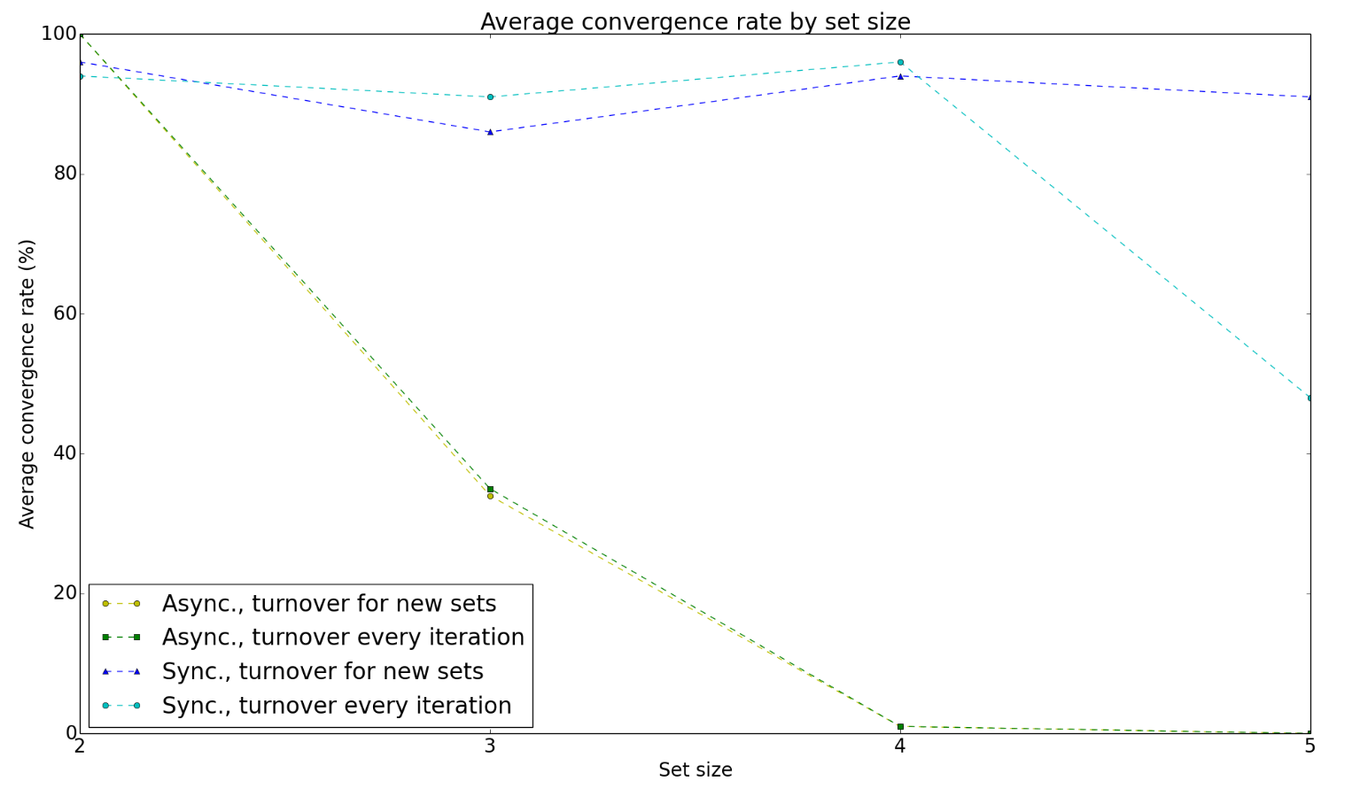
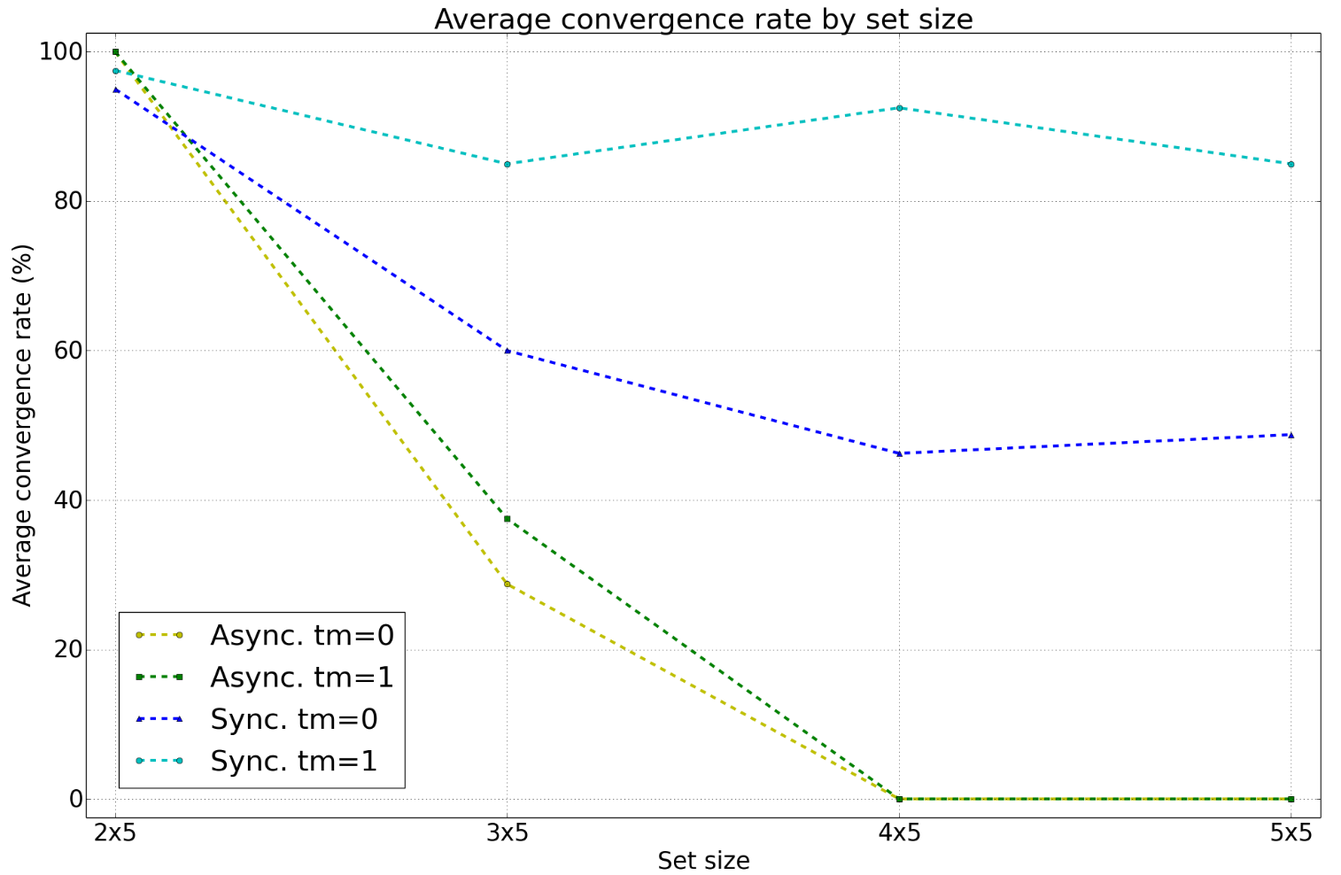
Added new figures for turnover rates. TODO: Add in text. Merge captions.

diff --git a/chapter4.tex b/chapter4.tex
@@ -75,7 +75,7 @@ In this thesis, two sets of 25 distinct patterns are used, namely the first 25 l
 \begin{figure}\label{fig:sample_letters}
     \centering
     \includegraphics[width=9cm]{fig/im_both.png}
-    \caption{Illustrating the 7x7 images that are used as input and output patterns, the first row being the input patterns and the second being the associated output pattern, here illustrated for an autoassociative case, which is used in the initial experimentation.}
+    \caption{Illustrating 7x7 images that are used as input and output patterns, the first row being the input patterns and the second being the associated output pattern, here illustrated for the auto-associative case for the first 2x5 patterns. Note that each pixel value is inflated to a larger square of pixels in order to make the figure more readable.}
 \end{figure}
 
 
@@ -86,7 +86,7 @@ Before I introduce the experiments, I would like to briefly introduce the model 
 This is followed by experiments designed to test specific aspects of the hippocampal model, presenting aggregate results such as graphs of mean convergence ratios along with corresponding analyses.
 
 \subsection{Low-level demonstration}
-Following is a demonstration of hippocampal model learning, using two distinct model schemes for two different examples, with figures of model output after each learning iteration for chaotic recall and normal recall, i.e. pattern association. The first two subsets of autoassociative patterns, that is \{A$\rightarrow$A, B$\rightarrow$B\}, and \{C$\rightarrow$C, D$\rightarrow$D\}, are used as training sets in this example.
+Following is a demonstration of hippocampal model learning, using two distinct model schemes for two different examples, with figures of model output after each learning iteration for chaotic recall and normal recall, i.e. pattern association. The first two subsets of auto-associative patterns, that is \{A$\rightarrow$A, B$\rightarrow$B\}, and \{C$\rightarrow$C, D$\rightarrow$D\}, are used as training sets in this example.
 Furthermore, the hippocampal module is instantiated with the parametrization described above in tables \ref{table:initial_settings} and \ref{table:firing_rates}, and with a neuronal turnover rate $\tau = 0.04$ and a DG-weighting of $1$ in the first example, and $\tau=0.50$ and DG-weighting$=25$ in the second example. Neuronal turnover is performed between every learnt training set - that is, only once after learning the \{A$\rightarrow$A, B$\rightarrow$B\} associations, before commencing learning of the next pair. Here the convergence criteria is set to a static number of training iterations, equal to $15$.
 In further experiments, results are generated and analysed for both a dynamic convergence criteria for learning and stability during recall, as well as for two configurations of $i$ training iterations as the learning and stable recall criterion. Furthermore, the weight matrices are instantiated according to their respective firing rates, with weights being randomly assigned according to Gaussian distributions using the parameters presented in table \ref{table:initial_weight_distributions}, for the number of neurons corresponding to the layers' firing rates, respectively (as outlined in table \ref{table:firing_rates}).
 
@@ -147,17 +147,17 @@ Furthermore, the convergence criterion is defined as the following: For each tra
 
 \begin{figure}
     \centering
-    \includegraphics[width=12cm]{fig/cut_prr_with_spurious_reset_every_experiment}
+    \includegraphics[width=12cm]{fig/average_perfect_recall_rates_by_set_size_with_spurious_bars_cut}
     \caption{Displaying the average number of perfectly recalled patterns for each mode configuration, along with the average number of spuriously recalled patterns for each configuration. Note that the dentate gyrus weighting is set to 25, and the turnover rate to $0.50$ in all of the configurations, which might impact particularly the turnover mode in which turnover is performed between every training iteration.}
     \label{fig:avg_perfect_recall_rates_with_spurious_bars}
 \end{figure}
 
-Note that spurious is defined as any distinct non-perfectly recalled pattern in figure \ref{fig:avg_perfect_recall_rates_with_spurious_bars}. Note that in contrast to the introductory examples where the convergence criterion was defined as training or recalling for a fixed number of iterations \textit{i}, (\textit{i} $=15$ in the introductory low-level examples), having a stricter convergence criterion naturally resulted in no spurious patterns being recalled in the synchronous updating schemes, as may be expected when considering figure \ref{fig:chaotic_recall_sync}. However, it remains unclear whether model convergence is attained only by studying this figure. In order to possibly elucidate this, the convergence rate is also logged and presented in figure \ref{fig:convergence_rates_async_sync} for asynchronous CA3 updating.
+Note that spurious is defined as any distinct non-perfectly recalled pattern in figure \ref{fig:avg_perfect_recall_rates_with_spurious_bars}. Non-perfect is used as a term rather than imperfect to signify that the pattern may be either nearly perfect, or in fact completely random, i.e. spurious. Note that in contrast to the introductory examples where the convergence criterion was defined as training or recalling for a fixed number of iterations \textit{i}, (\textit{i} $=15$ in the introductory low-level examples), having a stricter convergence criterion naturally resulted in no spurious patterns being recalled in the synchronous updating schemes, as may be expected when considering figure \ref{fig:chaotic_recall_sync}. However, it remains unclear whether model convergence is attained only by studying this figure. In order to possibly elucidate this, the convergence rate is also logged and presented in figure \ref{fig:convergence_rates_async_sync} for asynchronous CA3 updating.
 
 \begin{figure}
     \centering
     \includegraphics[width=13cm]{fig/avg_convergence_rate_cut}
-    \caption{Presenting the average convergence rate in the four experiment-schemes, using the strict convergence criterion. Learning and convergence is considered successful if attained within 50 training iterations. Note that the synchronous updating schemes seem to converge just as well in nearly all cases, except for in the case of set size 5.   [should increase line thickness, include grid too]}
+    \caption{Presenting the average convergence rate in the four experiment-schemes, using the strict convergence criterion. Learning and convergence is considered successful if attained within 50 training iterations. Note that the synchronous updating schemes seem to converge just as well in nearly all cases, except for in the case of set size 5.}
     \label{fig:convergence_rates_async_sync}
 \end{figure}
 
@@ -172,7 +172,7 @@ This is exactly the reason for why neuronal turnover is performed in the first c
 % refactor:
 However, according to physiological findings, this pathway is used very little during recall \citep{Wakagi2008}. 
 Furthermore, due to the auto-associative nature of the CA3-layer, if this layer has successfully converged for patterns with little overlap, it is likely to fall into a basin of attraction, performing pattern completion for partial pattern input. Now, one may think that the EC-layer will not necessarily project a partial, recoded pattern to the CA3-layer, as this recoding is performed in synergy with the DG-layer. However, as the observant reader may have noticed, it is exactly that; in \textit{synergy} with the DG-layer. As recoding has already been performed, this recoding is propagated to all layers of the network model by Hebbian learning. In other words, the synaptic weight modification between the EC-layer and CA3 will reflect the recoded pattern.
-Lastly, the nature of the CA3-neurons, i.e. chaotic neurons, may also impact the chaotic recall capabilities of the model. While it appears evident that the zeta- and eta-equations do not limit successful training of patterns, it may be that they impact the next activation values of the CA3-layer too heavily during recall. This may be argued by considering that in the current implementation, the next eta- and thus zeta-values are based on the former eta- and zeta-values along with the sum of the raw input sum, i.e. the sum of the dot products between the anteceding layers' activation value vectors and their corresponding weight matrices, without computing the values' transfer function values. )This may be tested by performing the entire experimental suite using). However, as damping factors are used, the former values will be disregarded at an exponential pace. Leaving only the possibility that the sum of the former values along with the new input sum enhances the gravity of the current basin of attraction. This is unlikely, as the model attains successful convergence for an additional term in the input equation during training, namely the dot product from the DG-layer. Furthermore, this product may be multiplied by a factor up to 25. If anything, this suggests that the eta- and zeta-functions are not at all excited about the DG-layers absence, possibly resulting in its stable mood.
+Lastly, the nature of the CA3-neurons, i.e. chaotic neurons, may also impact the chaotic recall capabilities of the model. While it appears evident that the zeta- and eta-equations do not limit successful training of patterns, it may be that they impact the next activation values of the CA3-layer too heavily during recall. This may be argued by considering that in the current implementation, the next eta- and thus zeta-values are based on the former eta- and zeta-values along with the sum of the raw input sum, i.e. the sum of the dot products between the anteceding layers' activation value vectors and their corresponding weight matrices, without computing the values' transfer function values. )This may be tested by performing the entire experimental suite using). However, as damping factors are used, the former values will be disregarded at an exponential pace. Leaving only the possibility that the sum of the former values along with the new input sum enhances the gravity of the current basin of attraction. This is unlikely, as the model attains successful convergence for an additional term in the input equation during training, namely the dot product from the DG-layer. Furthermore, this product may be multiplied by a factor up to 25. If anything, this suggests that the eta- and zeta-functions are not at all excited about the DG-layer's absence, possibly resulting in its stable mood.
 
 
 % ========================== DGWs ===============================
@@ -180,50 +180,49 @@ Lastly, the nature of the CA3-neurons, i.e. chaotic neurons, may also impact the
 
 In \citeauthor{Wakagi2008}'s \citeyear{Wakagi2008} hippocampal model, upon which \citeauthor{Hattori2010}'s \citeyear{Hattori2010, Hattori2014} models are based, the DG-layer, performing separation of similar, yet distinct patterns, has the ability to influence the activity of the CA3 strongly during learning. The idea that the DG is able to strongly influence the activity of CA3 during learning, is also confirmed by physiological findings \citep{Rolls1998chpt6}. 
 
-When it comes to this thesis' model; as synaptic connections from DG to CA3 are used solely during learning, this may in fact be what is needed in order to encompass and attain the desired emergence of successful pattern separation. Note also that the DG-CA3 weight matrix is initialized with rather high weight values ($\mu=0.9, \sigma=0.01$), and a low deviation from those values for the neurons whose synaptic connections become instantiated. This may result in the layer being able to highly influence preceding neurons through its connections. However, this does not necessarily hold, as weights from EC-CA3 may grow towards 1 as well. In either way, I decided to model the potential impact of adjusting the DG-weighting by implementing a DG-CA3 weight matrix \textit{coefficient}, also referred to as the DG-weighting. For each DG-weighting variable value from 0 to 29, 40 experiments are performed - i.e. 10 experiments per set size. Furthermore, these experiments are performed for three different hippocampal model configurations, namely:
+When it comes to this thesis' model; as synaptic connections from DG to CA3 are used solely during learning, this may in fact be what is needed in order to encompass and attain the desired emergence of successful pattern separation. Note also that the DG-CA3 weight matrix is initialized with rather high weight values ($\mu=0.9, \sigma=0.01$), and a low deviation from those values for the neurons whose synaptic connections become instantiated. This may result in the layer being able to highly influence preceding neurons through its connections. However, this does not necessarily hold, as weights from EC-CA3 may grow towards 1 as well. In either way, I decided to model the potential impact of adjusting the DG-weighting by implementing a DG-CA3 weight matrix \textit{coefficient}, also referred to as the DG-weighting. For each DG-weighting variable value from 0 to 29, 40 experiments are performed - i.e. 10 experiments per set size. Furthermore, these experiments are performed for four different hippocampal model configurations, namely:
 
 %list
 \begin{itemize}  
 \item Asynchronous updating of the CA3-layer values and weights, turnover for every training iteration, using a turnover rate $\tau=0.04$.
+\item Asynchronous updating of the CA3-layer, with neuronal turnover between learnt training subsets, $\tau=0.50$.
 \item Synchronous updating of the CA3-layer and its associated values and weights, turnover for every new training subset, $\tau=0.50$.
 \item Synchronous updating of the CA3-layer and its associated values and weights, turnover for every training iteration, $\tau=0.04$.
 \end{itemize}
 
-Note that only one asynchronous CA3-updating scheme was used. As there is a significant time limit to this thesis, I employ only one configuration for the asynchronous scheme in the DG-weighting calibration experiments, due to the observations that the two asynchronous CA3-updating schemes in figure \ref{fig:avg_perfect_recall_rates_with_spurious_bars}, as well as from other empirical data attained during mode calibration, shows little or no difference between the two schemes. Furthermore, note that the model configuration now employs a turnover rate, denoted by $\tau$, of $\tau=0.04$ in the asynchronous updating schemes. This is due to the fact that performing turnover for 50 \% of the neurons between learnt training subsets is in fact less than the number of neurons which are re-initialized when the number of iterations are above 12 before reaching convergence. Furthermore, I wish to investigate the impact of a more biologically realistic neuronal turnover rate, and nevertheless algorithmically testing slightly different model parametrization and computation schemes. Even though turnover for every training set iteration may be unrealistic, if it results in the model achieving better performance, it will provide the basis for a further analysis on the topic of randomness in the DG-layer, as well as whether the model may be linked to some hippocampal function aspects that operate on a longer time-scale.
+Note that the model configuration now employs a turnover rate, denoted by $\tau$, of $\tau=0.04$ in the neuronal turnover schemes where turnover is performed for every training iteration. This is due to the fact that performing turnover for 50 \% of the neurons between learnt training subsets does in fact result in less than the number of neurons which are re-initialized, when the number of iterations are above 12 before reaching convergence. Furthermore, $\tau=0.04$ is, albeit performing turnover implausibly frequently, a more biologically realistic rate in itself. Nevertheless, employing the different rates does algorithmically test slightly different model parametrization and computation aspects. Even though turnover for every training set iteration may be unrealistic, the may provide a basis for further analysis on the topic of randomness in the DG-layer, as well as whether the model may be linked to some hippocampal functional aspects that operate at a larger time-scale.
 
 % results
-% \begin{figure}
-%     \centering
-%     \includegraphics[width=13cm]{fig/3d_perfect_recall_by_set_size_and_dgw_async_tr_004_tm1}
-%     \caption{Perfect recall rates by set size for DG-weightings 0}
-%     \label{fig:3d_perfect_recall_by_set_size_and_dgw_async_tr_004_tm1}
-% \end{figure}
-
-% \begin{figure}
-%     \centering
-%     \includegraphics[width=12cm]{fig/3d_non_perfect_recall_by_set_size_and_dgw_async_tr_004_tm1}
-%     \caption{Caption}
-%     \label{fig:3d_non_perfect_recall_by_set_size_and_dgw_async_tr_004_tm1}
-% \end{figure}
-
 
 \begin{figure}
     \centering
-    \includegraphics[width=13cm]{fig/3d_perfect_recall_by_set_size_and_dgw_sync_tr_050_tm0}
+    \includegraphics[width=13cm]{fig/DGWs/cut/avg_recall_ratio_by_dgw_sync_tm0_50_cut}
     \caption{Perfect recall rate for synchronous CA3-layer neuronal updates, using a turnover rate $\tau=0.50$, and neuronal turnover between learnt subsets. It seems that using the DG-layer altogether does only slightly enhance the extraction rate of the model with the current parametrization. Furthermore, the extraction rate relative to the pattern size of perfectly recalled patterns remains fairly uniform across all training set sizes.}
-    \label{fig:3d_perfect_recall_by_set_size_and_dgw_sync_tr_050_tm0}
+    \label{fig:avg_recall_ratio_by_dgw_sync_tm0_50}
 \end{figure}
 
 \begin{figure}
     \centering
-    \includegraphics[width=13cm]{fig/3d_non_perfect_recall_by_set_size_and_dgw_sync_tr_050_tm0_angle_ss}
+    \includegraphics[width=13cm]{fig/DGWs/cut/non_perfect_recall_by_dgw_sync_tm0_50_cut}
     \caption{Displaying the number of spuriously recalled patterns, usign the synchronous CA3 updating mode, $\tau=0.50$, and turnover between learnt sets.}
-    \label{fig:3d_non_perfect_recall_by_set_size_and_dgw_sync_tr_050_tm0_angle_ss}
+    \label{fig:non_perfect_recall_by_dgw_sync_tm0_50}
 \end{figure}
 
-(All findings for DGWs in the async. mode need to be scrapped so far, due to an implementational bug.)
+\begin{figure}
+    \centering
+    \includegraphics[width=13cm]{fig/DGWs/cut/avg_recall_ratio_by_dgw_async_tm0_50_cut}
+    \caption{Perfect recall rate for synchronous CA3-layer neuronal updates, using a turnover rate $\tau=0.50$, and neuronal turnover between learnt subsets. It seems that using the DG-layer altogether does only slightly enhance the extraction rate of the model with the current parametrization. Furthermore, the extraction rate relative to the pattern size of perfectly recalled patterns remains fairly uniform across all training set sizes.}
+    \label{fig:avg_recall_ratio_by_dgw_async_tm0_50}
+\end{figure}
 
-Note in figure \ref{fig:3d_perfect_recall_by_set_size_and_dgw_sync_tr_050_tm0} that the perfect recall rate is fairly equal for all training set sizes. This may indicate that either few basins of attractions are formed, or that only few basins are reached during chaotic recall. As the model converges in nearly 100 \% of the cases, the latter is likely to be the case. Figures for synchronous CA3-layer updating, using turnover for every set iteration, with the neuronal turnover rate $\tau=0.04$, are included in appendix E. These figures are very similar to the ones attained for the scheme using turnover for every new set only, with $\tau=0.50$.
+\begin{figure}
+    \centering
+    \includegraphics[width=13cm]{fig/DGWs/cut/non_perfect_recall_by_dgw_async_tm0_50_cut}
+    \caption{Displaying the number of spuriously recalled patterns, usign the synchronous CA3 updating mode, $\tau=0.50$, and turnover between learnt sets.}
+    \label{fig:non_perfect_recall_by_dgw_async_tm0_50}
+\end{figure}
+
+Note in figure \ref{fig:avg_recall_ratio_by_dgw_sync_tm0_50} that the perfect recall rate is fairly equal for all training set sizes. This may indicate that either few basins of attractions are formed, or that only few basins are reached during chaotic recall. As the model converges in nearly 100 \% of the cases, the latter is likely to be the case. Figures for synchronous CA3-layer updating, using turnover for every set iteration, with the neuronal turnover rate $\tau=0.04$, are included in appendix E. These figures are very similar to the ones attained for the scheme using turnover for every new set only, with $\tau=0.50$.
 
 As for the DG-weighting itself, note that there seems to be no significant correlation nor performance gain with the DG-weighting. Therefore, pattern separation from the DG-CA3-connections seem to be largely unsuccessful during recall. 
 Note also that discarding the activity of the layer altogether during learning does not result in significantly worse model performance, which strengthens the hypothesis that the activity of the DG-layer is unsuccessful in heavily influencing the activity of the CA3-layer. 
@@ -257,68 +256,68 @@ Setup & CA3 updating mode & DG-weighting & Neuronal turnover mode       \\ \hlin
 
 Interestingly, the asynchronous updating mode seemed to leave the model unaffected by the turnover rate, $\tau$.
 
-\begin{figure}
-    \centering
-    \includegraphics[width=14cm]{fig/average_perfect_recall_rates_by_set_size_async_dgw_1_t_m_0}
-    \caption{Average perfect recall by neuronal turnover rate, for asynchronous CA3 neuron-updates, with turnover between every learnt training (sub-)set. Note that the perfect recall rate seems unaffected by a changing turnover rate.}
-    \label{fig:average_perfect_recall_rates_by_set_size_async_dgw_1_t_m_0}
-\end{figure}
+% \begin{figure}
+%     \centering
+%     \includegraphics[width=14cm]{fig/average_perfect_recall_rates_by_set_size_async_dgw_1_t_m_0}
+%     \caption{Average perfect recall by neuronal turnover rate, for asynchronous CA3 neuron-updates, with turnover between every learnt training (sub-)set. Note that the perfect recall rate seems unaffected by a changing turnover rate.}
+%     \label{fig:average_perfect_recall_rates_by_set_size_async_dgw_1_t_m_0}
+% \end{figure}
 
-\begin{figure}
-    \centering
-    \includegraphics[width=14cm]{fig/avg_convergence_by_turnover_rate_async_dgw_1_t_m_0_no_err_bars}
-    \caption{Average convergence by neuronal turnover rate, for asynchronous CA3 neuronal updating, and turnover between every learnt training (sub-)set. Note that convergence seems unaffected by a changing turnover rate.}
-    \label{fig:avg_convergence_by_turnover_rate_async_dgw_1_t_m_0_no_err_bars}
-\end{figure}
+% \begin{figure}
+%     \centering
+%     \includegraphics[width=14cm]{fig/avg_convergence_by_turnover_rate_async_dgw_1_t_m_0_no_err_bars}
+%     \caption{Average convergence by neuronal turnover rate, for asynchronous CA3 neuronal updating, and turnover between every learnt training (sub-)set. Note that convergence seems unaffected by a changing turnover rate.}
+%     \label{fig:avg_convergence_by_turnover_rate_async_dgw_1_t_m_0_no_err_bars}
+% \end{figure}
 
 These figures (\ref{fig:average_perfect_recall_rates_by_set_size_async_dgw_1_t_m_0}, \ref{fig:avg_convergence_by_turnover_rate_async_dgw_1_t_m_0_no_err_bars}), raise the question of whether my model contains any issues related to the DG-layer, as its parameters does not seem to affect model performance. If not, there seems to be too strong a pathway from the EC- to the CA3-layer. Optionally, it might be that the CA3-output weight updates, along with k-WTA, somehow constrains the model convergence and pattern separation. However, when investigating the figures for synchronous CA3-neuron updating, neuronal turnover rate does in fact positively impact the perfect recall rates of the model. As very similar results were attained for both neuronal turnover configurations when using asynchronous CA3-layer updating, the results from turnover mode 1 is presented in appendix E. 
 In both cases the turnover mode did not seem to impact the model performance. It is interesting to note that while this is the case, it may be that the asynchronous CA3-layer updating scheme introduces a certain robustness in the model, seeing that permuting/re-instantiating a large number of the EC-DG and DG-CA3 connections for every training set iteration does not reduce the model performance. That being said, the convergence rates seem to indicate that convergence is not achieved very well in both scenarios.
 
-\begin{figure}
-    \centering
-    \includegraphics[width=14cm]{fig/average_perfect_recall_rates_by_set_size_sync_dgw_1_t_m_0_no_err_bars}
-    \caption{Average perfect recall rate for synchronous CA3-layer updating, using a DG-weight coefficient of 1, and neuronal turnover between every learnt training subset. Note that the neuronal turnover rate does not seem to impact the model performance.}
-    \label{fig:average_perfect_recall_rates_by_set_size_sync_dgw_1_t_m_0_no_err_bars}
-\end{figure}
+% \begin{figure}
+%     \centering
+%     \includegraphics[width=14cm]{fig/average_perfect_recall_rates_by_set_size_sync_dgw_1_t_m_0_no_err_bars}
+%     \caption{Average perfect recall rate for synchronous CA3-layer updating, using a DG-weight coefficient of 1, and neuronal turnover between every learnt training subset. Note that the neuronal turnover rate does not seem to impact the model performance.}
+%     \label{fig:average_perfect_recall_rates_by_set_size_sync_dgw_1_t_m_0_no_err_bars}
+% \end{figure}
 
-\begin{figure}
-    \centering
-    \includegraphics[width=14cm]{fig/avg_convergence_by_turnover_rate_sync_dgw_1_t_m_0_no_err_bars}
-    \caption{Illustrating the average model convergence for synchronous CA3-layer updating, using a DG-weight coefficient of 1, and neuronal turnover between every learnt training subset. As the model largely fails to converge for any other set size than 2x5, this may indicate that pattern separation is unsuccessful, which would also explain why changing the neuronal turnover rate does not affect the model performance in figure \ref{fig:average_perfect_recall_rates_by_set_size_sync_dgw_1_t_m_0_no_err_bars}.}
-    \label{fig:avg_convergence_by_turnover_rate_sync_dgw_1_t_m_0_no_err_bars}
-\end{figure}
+% \begin{figure}
+%     \centering
+%     \includegraphics[width=14cm]{fig/avg_convergence_by_turnover_rate_sync_dgw_1_t_m_0_no_err_bars}
+%     \caption{Illustrating the average model convergence for synchronous CA3-layer updating, using a DG-weight coefficient of 1, and neuronal turnover between every learnt training subset. As the model largely fails to converge for any other set size than 2x5, this may indicate that pattern separation is unsuccessful, which would also explain why changing the neuronal turnover rate does not affect the model performance in figure \ref{fig:average_perfect_recall_rates_by_set_size_sync_dgw_1_t_m_0_no_err_bars}.}
+%     \label{fig:avg_convergence_by_turnover_rate_sync_dgw_1_t_m_0_no_err_bars}
+% \end{figure}
 
 Model convergence is not attained for the parameters of synchronous CA3 neuronal updates, a dentate granule cell weight coefficient of 1, and neuronal turnover between every learnt training subset, and its perfect recall rate remains very poor. This suggests that the model is both unable to separate the patterns for the correct input patterns during learning and recall. However, when increasing the DG-weighting to 25, perfect recall rates become twice as good, and the model converges for all pattern set sizes. This suggests that increasing the connection weighting of the synapses from the DG-layer to the CA3-layer may in fact enable, and improve pattern separation during learning and chaotic recall. Note yet that neuronal turnover rate seems uncorrelated with model performance in both schemes. Interestingly, when using DG-weighting 25 and neuronal turnover for every training iteration in the synchronous CA3 neuron udpating mode, the best model performance of this experiments' schemes is attained - resulting in  nearly 80 \% of the training sets from the 3x5 auto-associative training set being perfectly recalled. Furthermore, there is a slight increase in the recall capability for the other set sizes too, apart from the largest set size. Here strong correlation between convergence rates and perfect recall rate. Figures \ref{fig:average_perfect_recall_rates_by_set_size_sync_dgw_25_t_m_1_no_err_bars} and \ref{fig:avg_convergence_by_turnover_rate_sync_dgw_25_t_m_1_no_err_bars} elucidate the fact that as the convergence rate drops for training set size 5x5, so does the perfect recall rate in a highly correlated manner.
 
 % TM 0:
-\begin{figure}
-    \centering
-    \includegraphics[width=14cm]{fig/average_perfect_recall_rates_by_set_size_sync_dgw_25_t_m_0_no_err_bars}
-    \caption{Presenting the average perfect recall rate for the scheme of synchronous updating, now using a DG-weighting of 25, turnover being performed for every new training subset. Note that neuronal turnover does not seem to affect model performance significantly. However, there is a slight tendency towards a worse perfect recall rate as the turnover rate grows towards 0.50.}
-    \label{fig:average_perfect_recall_rates_by_set_size_sync_dgw_25_t_m_0_no_err_bars}
-\end{figure}
+% \begin{figure}
+%     \centering
+%     \includegraphics[width=14cm]{fig/average_perfect_recall_rates_by_set_size_sync_dgw_25_t_m_0_no_err_bars}
+%     \caption{Presenting the average perfect recall rate for the scheme of synchronous updating, now using a DG-weighting of 25, turnover being performed for every new training subset. Note that neuronal turnover does not seem to affect model performance significantly. However, there is a slight tendency towards a worse perfect recall rate as the turnover rate grows towards 0.50.}
+%     \label{fig:average_perfect_recall_rates_by_set_size_sync_dgw_25_t_m_0_no_err_bars}
+% \end{figure}
 
-\begin{figure}
-    \centering
-    \includegraphics[width=14cm]{fig/avg_convergence_by_turnover_rate_sync_dgw_25_t_m_0_no_err_bars}
-    \caption{Convergence is attained in about 80 to 100 \% of the cases, but is not correlated with the training set size.}
-    \label{fig:avg_convergence_by_turnover_rate_sync_dgw_25_t_m_0_no_err_bars}
-\end{figure}
+% \begin{figure}
+%     \centering
+%     \includegraphics[width=14cm]{fig/avg_convergence_by_turnover_rate_sync_dgw_25_t_m_0_no_err_bars}
+%     \caption{Convergence is attained in about 80 to 100 \% of the cases, but is not correlated with the training set size.}
+%     \label{fig:avg_convergence_by_turnover_rate_sync_dgw_25_t_m_0_no_err_bars}
+% \end{figure}
 
-% TM 1:
-\begin{figure}
-    \centering
-    \includegraphics[width=14cm]{fig/average_perfect_recall_rates_by_set_size_sync_dgw_25_t_m_1_no_err_bars}
-    \caption{Showing the average perfect recall rate for the scheme of synchronous updating with a DG-weighting of 25, turnover being performed for every training iteration. Interestingly, model performance is now highly correlated with the turnover rate, when turnover is being performed very frequently.}
-    \label{fig:average_perfect_recall_rates_by_set_size_sync_dgw_25_t_m_1_no_err_bars}
-\end{figure}
+% % TM 1:
+% \begin{figure}
+%     \centering
+%     \includegraphics[width=14cm]{fig/average_perfect_recall_rates_by_set_size_sync_dgw_25_t_m_1_no_err_bars}
+%     \caption{Showing the average perfect recall rate for the scheme of synchronous updating with a DG-weighting of 25, turnover being performed for every training iteration. Interestingly, model performance is now highly correlated with the turnover rate, when turnover is being performed very frequently.}
+%     \label{fig:average_perfect_recall_rates_by_set_size_sync_dgw_25_t_m_1_no_err_bars}
+% \end{figure}
 
-\begin{figure}
-    \centering
-    \includegraphics[width=14cm]{fig/avg_convergence_by_turnover_rate_sync_dgw_25_t_m_1_no_err_bars}
-    \caption{Convergence is attained in about 90 to 100 \% of the cases, and seems to be best for a neuronal turnover rate $\tau$ in the interval of approximately $[0, 30]$. Note that the convergence drops rapibly for the largest training set size when $\tau$ goes above this value (for $\tau \in [0.30, 0.58]$).}
-    \label{fig:avg_convergence_by_turnover_rate_sync_dgw_25_t_m_1_no_err_bars}
-\end{figure}
+% \begin{figure}
+%     \centering
+%     \includegraphics[width=14cm]{fig/avg_convergence_by_turnover_rate_sync_dgw_25_t_m_1_no_err_bars}
+%     \caption{Convergence is attained in about 90 to 100 \% of the cases, and seems to be best for a neuronal turnover rate $\tau$ in the interval of approximately $[0, 30]$. Note that the convergence drops rapibly for the largest training set size when $\tau$ goes above this value (for $\tau \in [0.30, 0.58]$).}
+%     \label{fig:avg_convergence_by_turnover_rate_sync_dgw_25_t_m_1_no_err_bars}
+% \end{figure}
 
 Note that the convergence rates in synchronous CA3-layer updating, using a DG-weighting of 1 and neuronal turnover for every new training subset, is in fact very similar to those of all of the asynchronous CA3-layer updating schemes so far. This may in fact indicate that pattern separation is unsuccessful due to the low influence from the DG-layer, i.e. a weight-coefficient of 1. Furthermore, if this demonstrates a fairly unsuccessful pattern separation scheme during learning, the fact that the graphs look very similar for all of the async. schemes in turns of convergence may then in fact indicate a lack of separation capabilities, which stems from the asynchronicity. In fact, this may make sense, as asynchronous neuronal updates using the newest updated values in the CA3-layer through its recurrent connections may in fact introduce too much randomness in the model. One solution to this may be to introduce hardware-mediated asynchronicity through algorithmic parallelization, as this is more likely to mostly use the current neuronal values, thus largely reducing the randomness and combinations of neuronal updates, while still introducing slightly more chaos, or 'jiggle', to the model. Furthermore, this scheme is more biologically realistic. However, implementing such a scheme is outside the scope of this thesis, and it remains a point which I would like to pursue in future work.
 
@@ -418,7 +417,8 @@ some patterns may be recalled after the next training set has been learned. i al
 
 Async. seems to be by far the most accurate in terms of perfect recall when it converges. Sync. with turnover for every learnt set has the highest convergence rate - non-changing for different set sizes, but the worst perfect recall rate.
 
-It would be very interesting to see how using the 'spurious' patterns along with the actual matching patterns would consolidate to the neocortical network, comparing this to the performance attained by using the formerly outlined pseudopattern generation. In the event of having a similar effect from pattern consolidation using spurious patterns, this may point in the direction of spontaneously generated 'spurious' patterns in fact possibly acting as pseudopatterns, thus outlining a process for pseudopattern generation in the brain. (Where the stability during recall could determine the consolidation strength. For complete convergence during training using async, mode 0, about 7 iterations were required for convergence - which is thought to be (?) the number of required iterations for successful neocortical memory consolidation. This could be a spurious correlation - however, the number is equal during convergence for set size 2. If the same number of iteration can be required for a successful configuration for set size 3, this would suggest that the number is not spurious.)
+It would be very interesting to see how using the 'spurious' patterns along with the actual matching patterns would consolidate to the neocortical network, comparing this to the performance attained by using the formerly outlined pseudopattern generation. In the event of having a similar effect from pattern consolidation using spurious patterns, this may point in the direct
+ion of spontaneously generated 'spurious' patterns in fact possibly acting as pseudopatterns, thus outlining a process for pseudopattern generation in the brain. (Where the stability during recall could determine the consolidation strength. For complete convergence during training using async, mode 0, about 7 iterations were required for convergence - which is thought to be (?) the number of required iterations for successful neocortical memory consolidation. This could be a spurious correlation - however, the number is equal during convergence for set size 2. If the same number of iteration can be required for a successful configuration for set size 3, this would suggest that the number is not spurious.)
 \\
 
 Along with the spurious patterns, if considering the sum of distinct perfectly recalled patterns and spurious patterns as containing information about the number of patterns, the asynchronous scheme seems to contain the most information, only falling off at set size 5. This is most likely due to the convergence being 0 \% , which it actually is at set size 4, too. Increasing the number of iterations may remedy this - however, a further calibration is most likely more relevant.

diff --git a/appendixE.tex b/appendixE.tex
@@ -18,16 +18,36 @@
 
 \subsection*{Further figures from experiment 4.2, DG-weighting}
 
+\subsubsection{Sync.}
+
 \begin{figure}
     \centering
-    \includegraphics[width=13cm]{fig/3d_perfect_recall_by_set_size_and_dgw_sync_tr_004_tm1}
+    \includegraphics[width=13cm]{fig/DGWs/cut/avg_recall_ratio_by_dgw_sync_tm1_04_cut}
     \caption{PRR sync, $\tau=0.04$, turnover for every training iteration.}
-    \label{fig:3d_perfect_recall_by_set_size_and_dgw_sync_tr_004_tm1}
+    \label{fig:avg_recall_ratio_by_dgw_sync_tm1_04}
 \end{figure}
 
 \begin{figure}
     \centering
-    \includegraphics[width=13cm]{fig/3d_non_perfect_recall_by_set_size_and_dgw_sync_tr_004_tm1_angle_ss}
+    \includegraphics[width=13cm]{fig/DGWs/cut/non_perfect_recall_by_dgw_sync_tm1_04_cut}
     \caption{Spurious recall sync, $\tau=0.04$, turnover for every training iteration.}
-    \label{fig:3d_non_perfect_recall_by_set_size_and_dgw_sync_tr_004_tm1_angle_ss}
+    \label{fig:non_perfect_recall_by_dgw_sync_tm1_04}
 \end{figure}
+
+
+\subsubsection{Async.}
+
+\begin{figure}
+    \centering
+    \includegraphics[width=13cm]{fig/DGWs/cut/avg_recall_ratio_by_dgw_async_tm1_04_cut}
+    \caption{PRR sync, $\tau=0.04$, turnover for every training iteration.}
+    \label{fig:avg_recall_ratio_by_dgw_async_tm1_04}
+\end{figure}
+
+\begin{figure}
+    \centering
+    \includegraphics[width=13cm]{fig/DGWs/cut/non_perfect_recall_by_dgw_async_tm1_04_cut}
+    \caption{Spurious recall sync, $\tau=0.04$, turnover for every training iteration.}
+    \label{fig:non_perfect_recall_by_dgw_async_tm1_04}
+\end{figure}
+
